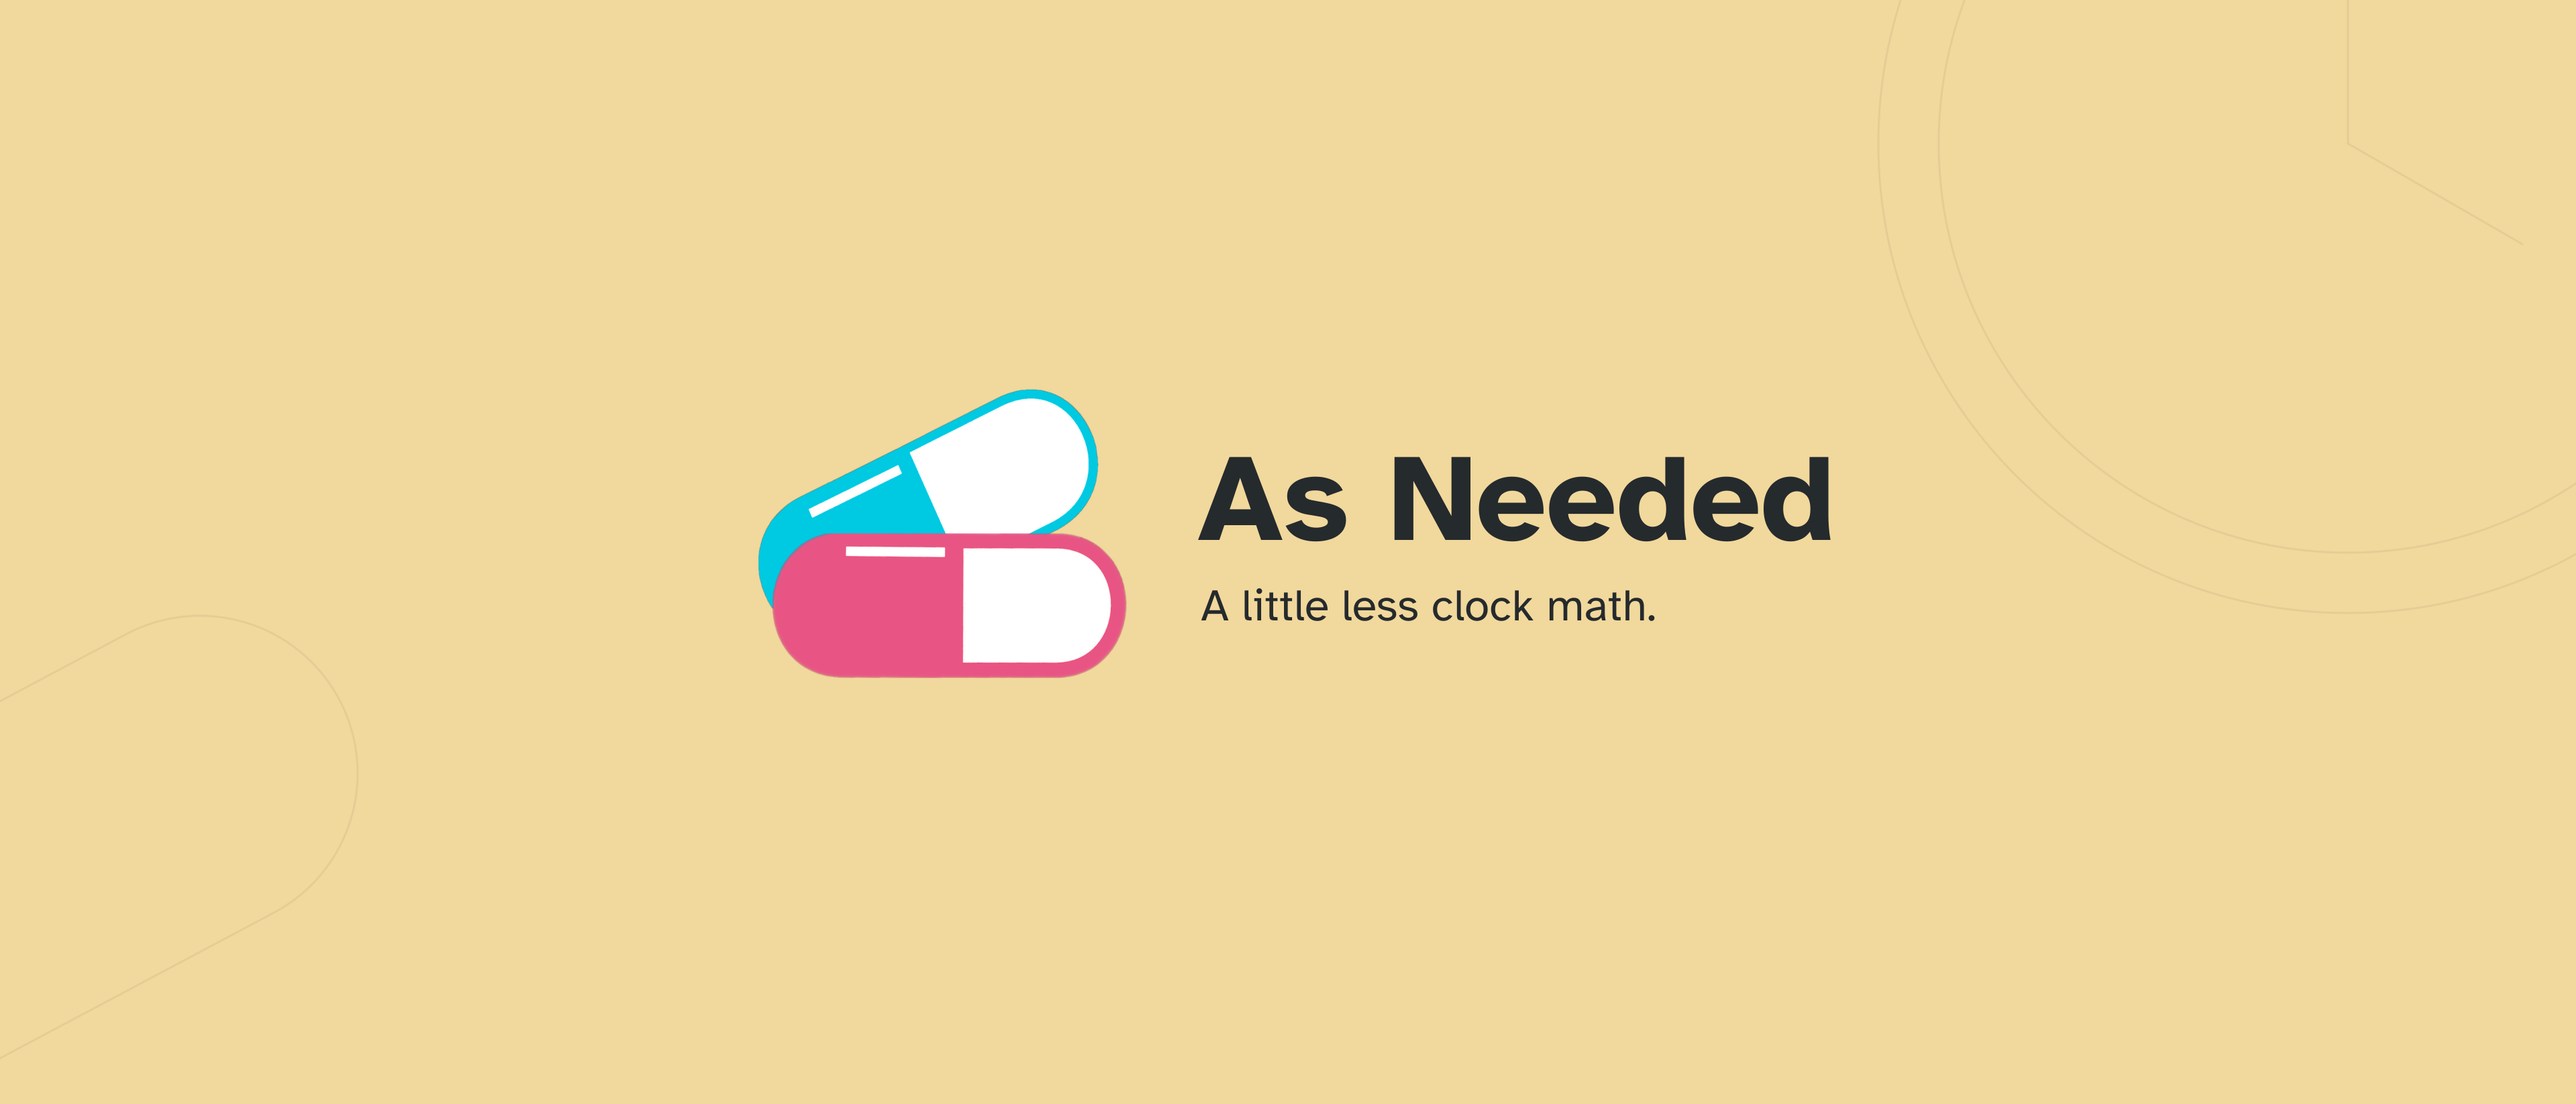
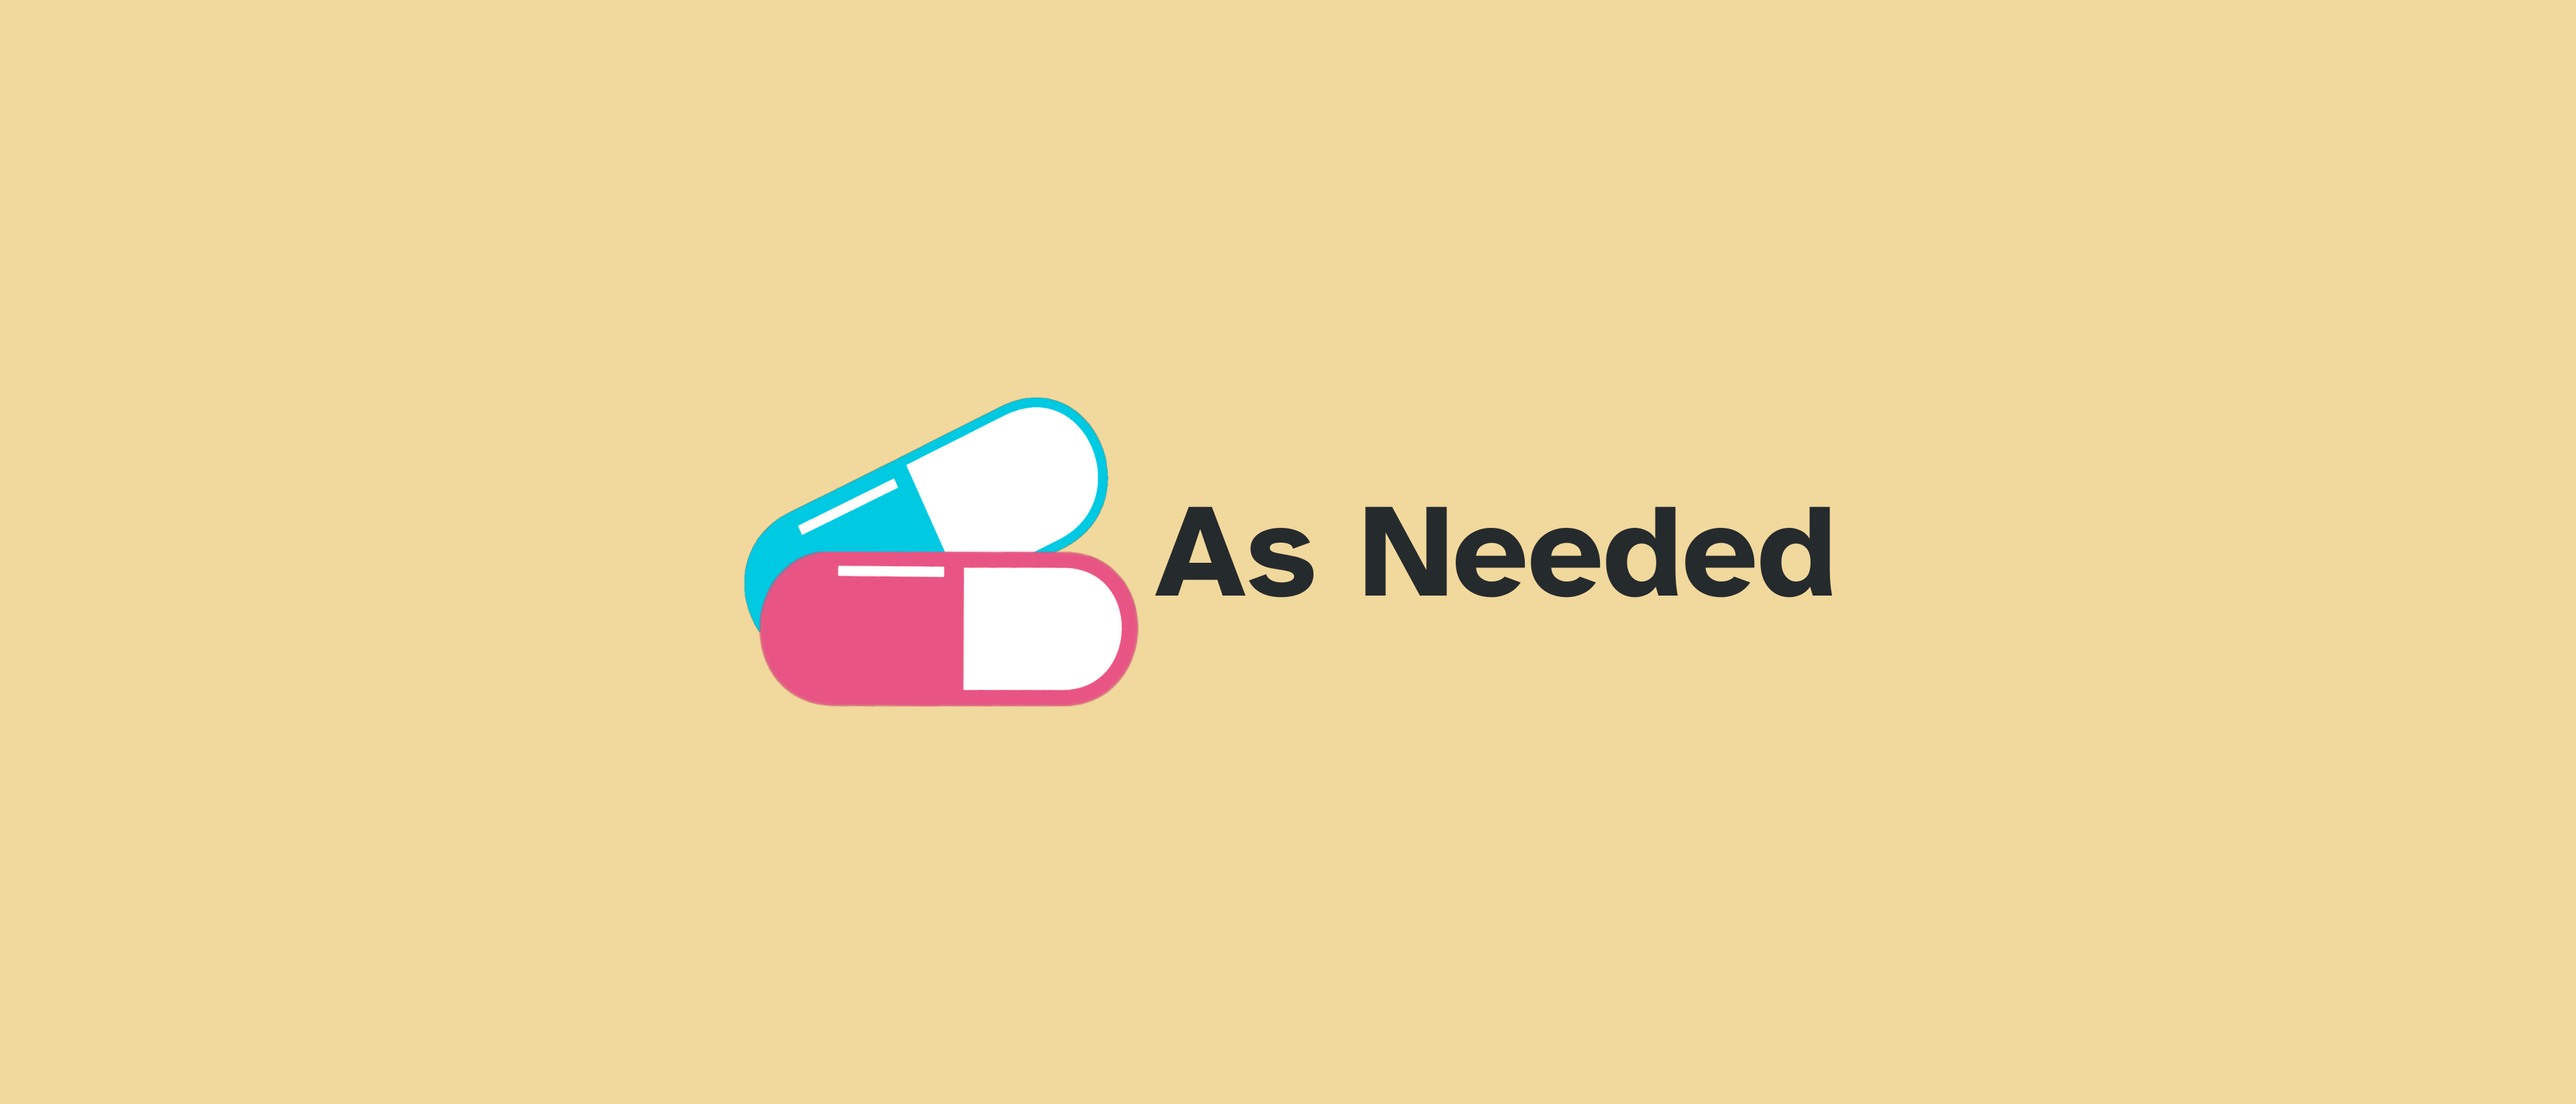
Enlarge header branding and remove subtitle for 1.2.0

Changed region(s): [[0.2812, 0.3408, 0.7188, 0.6507]]

diff --git a/Design/AppStoreConnect/1.2.0/creative-assets/render_assets.py b/Design/AppStoreConnect/1.2.0/creative-assets/render_assets.py
@@ -1,5 +1,6 @@
 """Render brand artwork with the repository's exact font outlines and icon layers."""
 from pathlib import Path
+import argparse
 import json
 import shutil
 import subprocess
@@ -57,13 +58,13 @@ def decoration(height):
     </g>'''
 
 
-def render(name, width, height, content):
+def render(name, width, height, content, decorated=True):
     source = OUT / f'{name}.svg'
     source.write_text(f'''<svg xmlns="http://www.w3.org/2000/svg" width="{width}" height="{height}" viewBox="0 0 {width} {height}">
       <title>As Needed — {name.replace('-', ' ')}</title>
       <desc>App-icon yellow background. Exact Atkinson Hyperlegible outlines. Original medication icon artwork.</desc>
       <rect width="{width}" height="{height}" fill="{YELLOW}"/>
-      {decoration(height)}{content}
+      {decoration(height) if decorated else ''}{content}
     </svg>''')
     intermediate = OUT / f'.{name}-rgba.png'
     subprocess.run(['rsvg-convert', str(source), '-o', str(intermediate)], check=True)
@@ -72,19 +73,30 @@ def render(name, width, height, content):
     intermediate.unlink()
 
 
-render('header', 3840, 1646,
-       pills(1130, 580, 550)
-       + text('As Needed', 1785, 805, 185, 'Bold')
-       + text('A little less clock math.', 1790, 925, 67))
+parser = argparse.ArgumentParser(description=__doc__)
+parser.add_argument('--only', choices=['header', 'search-results', 'all'], default='all')
+selection = parser.parse_args().only
 
-render('search-results', 3840, 2560,
+if selection in ['header', 'all']:
+    # Apple's PSD Art Safe Area: (1097, 493), 1646 x 661.
+    # The original pill layers and exact font ink occupy x=1109..2731,
+    # centered vertically, retaining 12 px of horizontal breathing room.
+    render('header', 3840, 1646,
+           pills(1109, 592, 589)
+           + text('As Needed', 1721, 888, 198, 'Bold'), decorated=False)
+
+if selection in ['search-results', 'all']:
+    render('search-results', 3840, 2560,
        text('As Needed', 950, 900, 88, 'Bold')
        + text('Keep track.', 945, 1130, 183, 'Bold')
        + text('Carry on.', 945, 1325, 183, 'Bold')
        + text('As-needed medication tracking.', 954, 1490, 64, fill=MUTED)
        + pills(2210, 1010, 770))
 
-(OUT / 'manifest.json').write_text(json.dumps({
+manifest_path = OUT / 'manifest.json'
+existing = json.loads(manifest_path.read_text()) if manifest_path.exists() else {}
+manifest_path.write_text(json.dumps({
+    **existing,
     'background': YELLOW,
     'backgroundSource': 'AsNeeded/AppIcon.icon/icon.json fill.solid',
     'font': 'Atkinson Hyperlegible Regular and Bold, bundled TTF outlines; no font substitution',
@@ -93,5 +105,9 @@ render('search-results', 3840, 2560,
     'format': 'Opaque RGB PNG, sRGB',
     'specification': 'https://developer.apple.com/help/app-store-connect/reference/app-information/creative-assets-specifications',
     'sourceArtwork': 'Original AppIcon.icon layers, referenced from assets/ without modifying source files',
-    'status': 'Local draft; not uploaded or submitted'
+    'status': f'Locally regenerated {selection}; verify upload status before publication',
+    'headerLayout': {'subtitle': False, 'safeArea': {'x': 1097, 'y': 493, 'width': 1646, 'height': 661},
+                     'safeAreaSource': 'Apple creative_assets-product_page_header_template-static.psd, Art Safe Area layer',
+                     'brandingBounds': {'left': 1109, 'top': 592, 'right': 2731, 'bottom': 1055},
+                     'pillWidth': 589, 'wordmarkFontSize': 198}
 }, indent=2) + '\n')

diff --git a/Design/AppStoreConnect/1.2.0/creative-assets/README.md b/Design/AppStoreConnect/1.2.0/creative-assets/README.md
@@ -9,13 +9,17 @@ Approved en-US artwork uploaded and assigned to App Store version 1.2.0 on Octob
 
 The background is **#F1D89C**, read directly from `AsNeeded/AppIcon.icon/icon.json`. The two pill layers are the original app icon artwork. All typography uses outlines from the bundled **Atkinson Hyperlegible Regular and Bold** fonts, avoiding any font substitution during export. License: `AsNeeded/Resources/Fonts/Licenses/AtkinsonHyperlegible-LICENSE.txt`.
 
-The SVGs contain outlined glyphs and reference the original pill PNGs in `assets/`; keep that folder beside the SVGs. PNG exports are opaque RGB in sRGB. Primary branding and copy are centered to allow surrounding cropping. Check the final placements in App Store Connect's Preview tool before publishing.
+The SVGs contain outlined glyphs and reference the original pill PNGs in `assets/`; keep that folder beside the SVGs. PNG exports are opaque RGB in sRGB. The revised header contains only the pills and wordmark on yellow, with no subtitle or decorative background shapes. Both are about 7% larger than the initial header.
+
+Apple's [Photoshop header template](https://developer.apple.com/go/?id=photoshop-product-page-header-template), checked October 29, 2026, defines an **Art Safe Area of 1646 × 661 at (1097, 493)** within the 3840 × 1646 canvas. The revised branding's measured pixel bounds are **(1109, 592)–(2731, 1055)**: centered, fully inside that area, and using almost its entire width. Check the final placement in App Store Connect's Preview tool before publishing.
 
 Recreate from the repository root with:
 
 ```sh
 python3 Design/AppStoreConnect/1.2.0/creative-assets/render_assets.py
 ```
+
+Add `--only header` to regenerate the header without touching the search image.
 
 Rendering requires FontTools, librsvg's `rsvg-convert`, and ImageMagick's `magick`. These are artwork-authoring tools, not application build dependencies. No app code or screenshots are modified.
 
